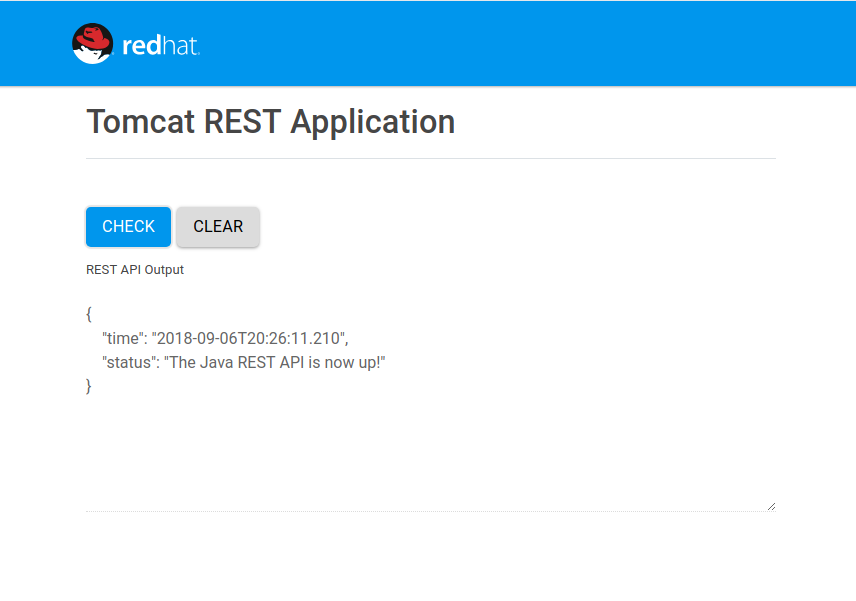
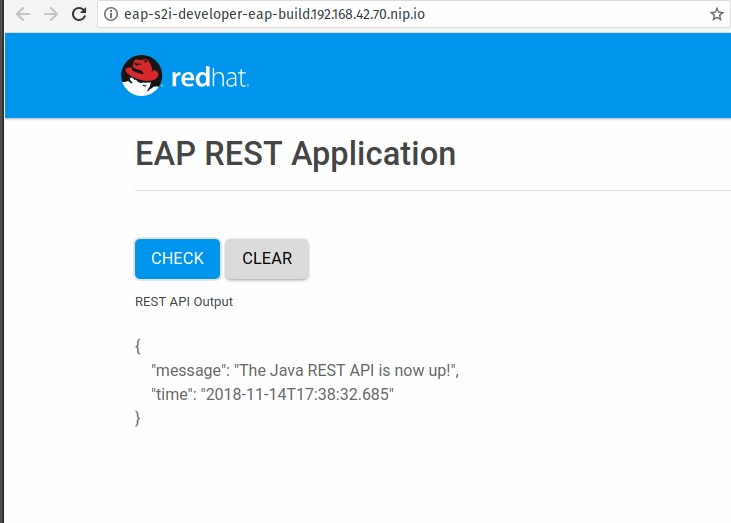
use screenshot

Changed region(s): [[0.0, 0.0, 1.0, 1.0], [0.2107, 0.673, 0.632, 0.7648], [0.1806, 0.6424, 0.2107, 0.673]]

diff --git a/README.md b/README.md
@@ -1,6 +1,8 @@
 # Examples for Building Java Applications on Openshift
 
-For developers using [Openshift](https://www.openshift.com/). Included are examples of [source to image](https://github.com/openshift/source-to-image), **source to image** binary deployment (copy the WAR) and a build from a **docker** file.
+For developers using JBoss EAP on [Openshift](https://www.openshift.com/). Included are examples of [source to image](https://github.com/openshift/source-to-image), **source to image** binary deployment (copy the WAR) and a build from a **docker** file.
+
+![screenshot](./screenshot.png)
 
 Examples of when to use each:
 
